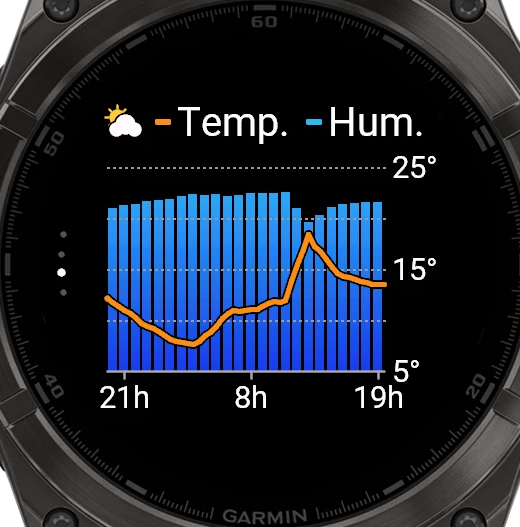
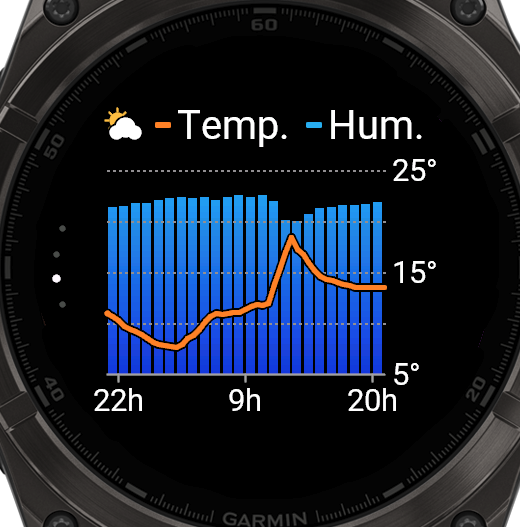
Glissement plus fluide, points en arc, haut-parleur vert
Chaque écran est dessiné une fois dans une image en mémoire graphique puis
recopié ; les écrans voisins sont préparés à l'avance. Copies d'écran à jour.

diff --git a/README.md b/README.md
@@ -58,7 +58,7 @@ Le projet contient deux briques :
 
 - **À gauche, la maison** : symbole maison, température intérieure, jauge d'humidité
   (goutte bleue dessous) et jauge du niveau sonore (haut-parleur dessous). La jauge du bruit
-  et son symbole suivent l'échelle colorée vert → jaune → orange → rouge (30 à 80 dB).
+  suit l'échelle colorée vert → jaune → orange → rouge (30 à 80 dB) ; le haut-parleur reste vert.
 - **À droite, l'extérieur** : symbole soleil et nuage, température extérieure avec chevron de
   tendance, minimum ↓ et maximum ↑ du jour dessous, jauge d'humidité (goutte bleue).
 
@@ -69,7 +69,7 @@ Les valeurs passent en gris si la dernière mesure date de plus de 2 h.
 Sur le modèle de l'écran *Tendance* de la météo Garmin : en haut, le symbole (maison ou
 extérieur) et la légende sur une ligne ; barres par heure en dégradé, courbe par demi-heure
 graduée à droite (extrêmes et milieu), repères horaires en bas (début + 1 h, milieu, fin − 1 h).
-Les 4 écrans glissent de l'un à l'autre ; 4 petits points, à gauche le long du bord, indiquent
+Les 4 écrans glissent de l'un à l'autre ; 4 petits points, à gauche en arc le long du bord, indiquent
 l'écran affiché.
 
 | Écran | Symbole | Courbe | Barres |
@@ -253,6 +253,11 @@ une erreur 5xx ou réseau est réessayée une fois.
 - **Indicateur de page** : la boucle de vues native (`ViewLoop`) impose un grand arc ; l'app
   enchaîne donc ses vues avec `switchToView` (`SLIDE_UP` / `SLIDE_DOWN`) et dessine ses propres
   points.
+- **Fluidité du glissement** : la montre doit avoir dessiné le nouvel écran avant de lancer
+  l'animation. Chaque écran est donc dessiné une seule fois dans une image en mémoire graphique
+  (`Graphics.createBufferedBitmap`), puis simplement recopié ; les écrans voisins sont préparés
+  juste après l'affichage. 3 images sont réutilisées (affiché + voisins) plutôt que libérées et
+  recréées, ce qui pouvait en effacer le contenu.
 
 ### Structure de l'app Connect IQ
 
